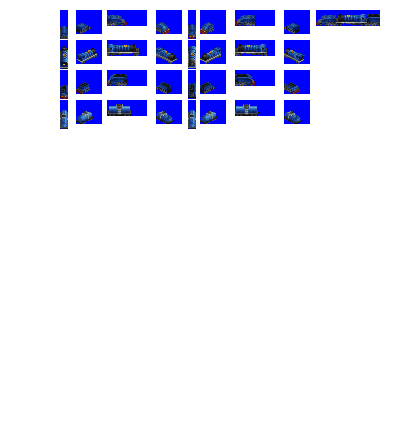
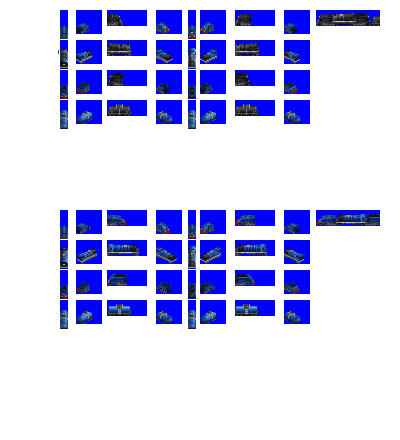
Change: add Okapi mixed traffic diesel loco to Antelope

diff --git a/src/vehicles/drakensberg.py b/src/vehicles/drakensberg.py
@@ -17,17 +17,17 @@ consist = EngineConsist(id = 'drakensberg',
 
 consist.add_unit(SteamLocoTender(consist = consist,
                         weight = 65,
-                        vehicle_length = 5,
+                        vehicle_length = 4,
                         spriterow_num = 0))
 
 consist.add_unit(SteamLoco(consist = consist,
                         weight = 80,
-                        vehicle_length = 8,
+                        vehicle_length = 6,
                         spriterow_num = 1))
 
 consist.add_unit(SteamLocoTender(consist = consist,
                         weight = 65,
-                        vehicle_length = 5,
+                        vehicle_length = 4,
                         spriterow_num = 2))
 
 consist.add_unit(SteamLocoTender(consist = consist,

diff --git a/src/vehicles/okapi.py b/src/vehicles/okapi.py
@@ -1,0 +1,22 @@
+import global_constants
+from train import EngineConsist, DieselLoco
+
+consist = EngineConsist(id = 'okapi',
+              base_numeric_id = 1960,
+              title = 'Okapi [Diesel]',
+              replacement_id = '-none',
+              power = 1800,
+              track_type = 'NG',
+              speed = 60,
+              vehicle_life = 40,
+              intro_date = 1955,
+              use_legacy_spritesheet = True)
+
+consist.add_unit(DieselLoco(consist = consist,
+                        weight = 100,
+                        vehicle_length = 8,
+                        spriterow_num = 0))
+
+consist.add_model_variant(intro_date=0,
+                       end_date=global_constants.max_game_date,
+                       spritesheet_suffix=0)

diff --git a/src/rosters/antelope.py b/src/rosters/antelope.py
@@ -7,6 +7,7 @@ from vehicles import big_boat
 from vehicles import bigfoot
 from vehicles import drakensberg
 from vehicles import hofman
+from vehicles import okapi
 from vehicles import savannah_slammer
 from vehicles import smokey_mountain
 from vehicles import springburn
@@ -24,6 +25,7 @@ roster = Roster(id = 'antelope',
                 speeds = speeds,
                 engines = [hofman,
                            drakensberg,
+                           okapi,
                            bergwind,
                            bigfoot,
                            springburn,
